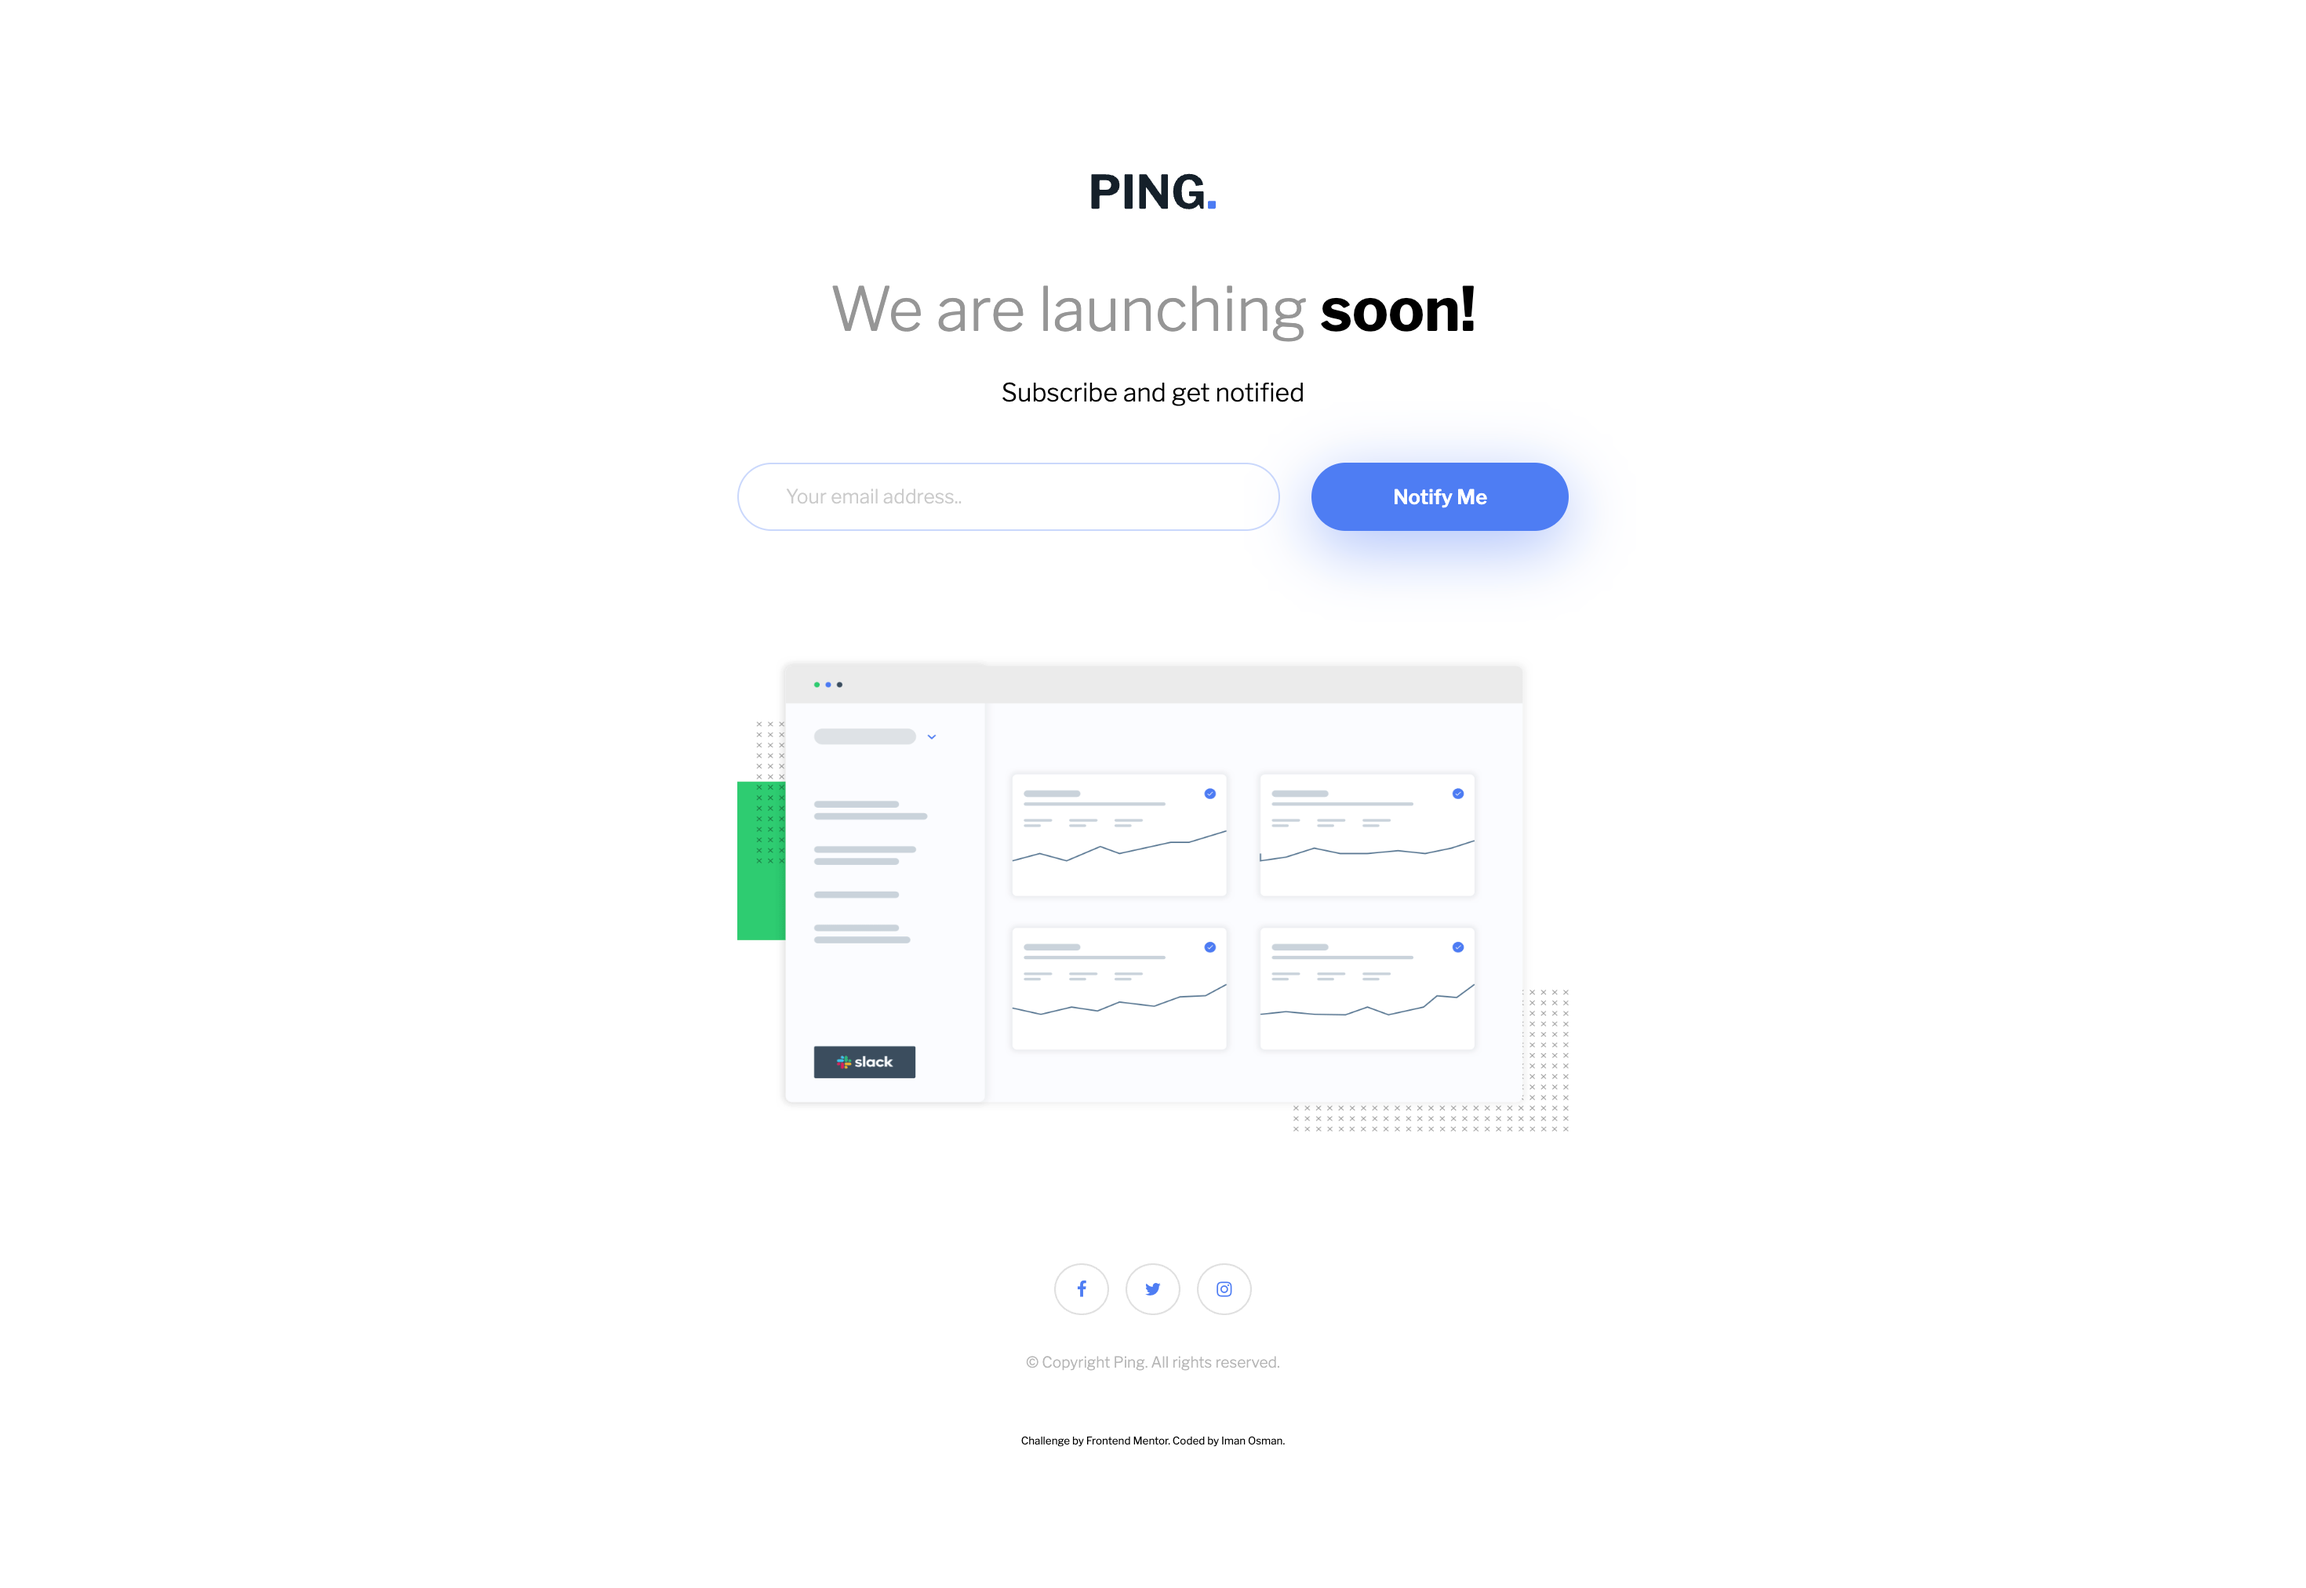
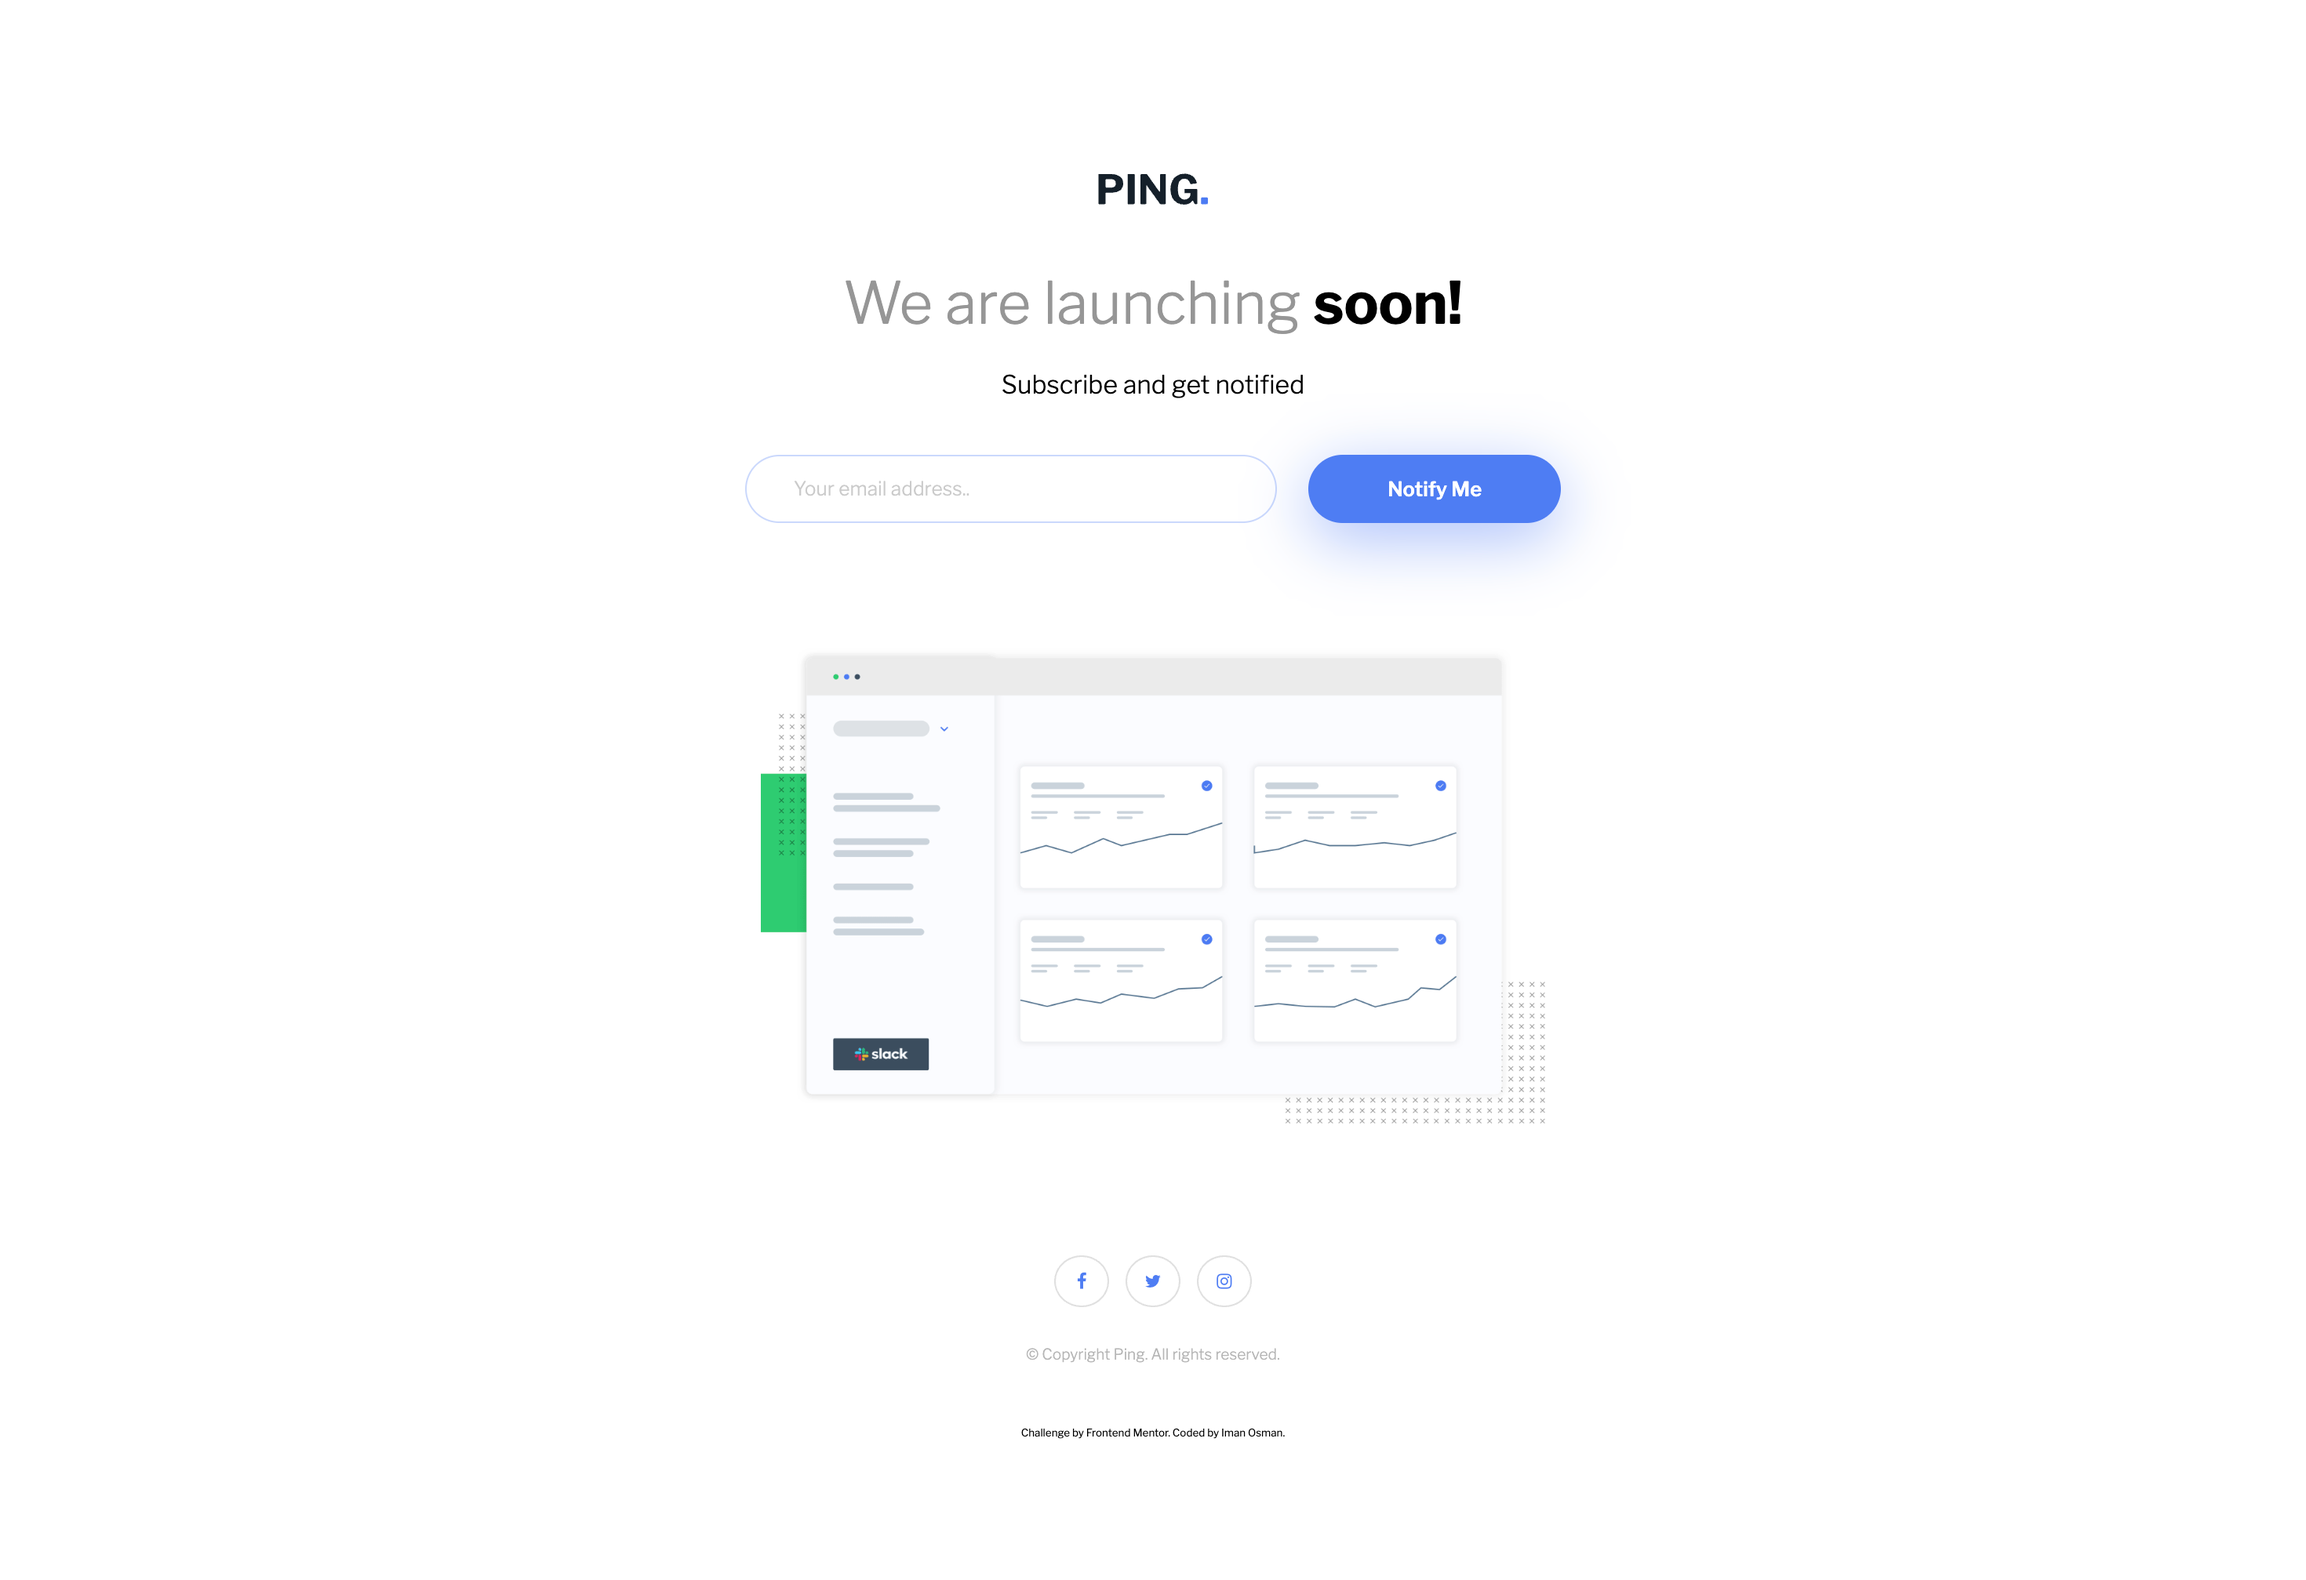
responsive desktop

diff --git a/sass/input.scss b/sass/input.scss
@@ -136,32 +136,27 @@ footer {
     }
 }
 
-// MEDIA QUERIES 
 
 @media screen and (min-width: 426px) { 
 
-    body, header, footer { 
-        margin: 30px 470px;
-    }
-
     .logo { 
-        width: 15%;
+        width: 70px;
     }
 
     .title {
-        font-size: 2.4em;
+        font-size: 2.2em;
         margin-top: 0;
         margin-bottom: 20px;
     }
 
     .subheading { 
-        font-size: 1em;
+        font-size: 0.9em;
         margin-top: 0;
     }
 
     form { 
         
-        width: 100%;
+        min-width: 420px;
 
         display: flex; 
         flex-direction: row;
@@ -198,10 +193,10 @@ footer {
 
         height: 40svh;
         margin-bottom: 80px;
+        width: 450px;
     }
 
     footer { 
-        
         margin: 20px 0;
     }
 
@@ -214,12 +209,28 @@ footer {
 
     a:hover { 
         cursor: pointer;
-        // opacity: 80%; 
         background: hsl(223, 87%, 63%);
         color: #ffffff;
     }
 }
 
-// HOVER STATE
+@media screen and (min-width: 768px) { 
+
+    .title { 
+        font-size: 2.3em; 
+    }
+
+    .subheading { 
+        font-size: 1em; 
+    }
+
+    form { 
+        min-width: 520px;
+    }
+
+    .illustration { 
+        width: 500px;
+    }
+}
 
 

diff --git a/sass/input.css b/sass/input.css
@@ -155,23 +155,20 @@ footer .attribution {
 }
 
 @media screen and (min-width: 426px) {
-  body, header, footer {
-    margin: 30px 470px;
-  }
   .logo {
-    width: 15%;
+    width: 70px;
   }
   .title {
-    font-size: 2.4em;
+    font-size: 2.2em;
     margin-top: 0;
     margin-bottom: 20px;
   }
   .subheading {
-    font-size: 1em;
+    font-size: 0.9em;
     margin-top: 0;
   }
   form {
-    width: 100%;
+    min-width: 420px;
     display: flex;
     flex-direction: row;
   }
@@ -201,6 +198,7 @@ footer .attribution {
   .illustration {
     height: 40svh;
     margin-bottom: 80px;
+    width: 450px;
   }
   footer {
     margin: 20px 0;
@@ -212,5 +210,19 @@ footer .attribution {
     cursor: pointer;
     background: hsl(223, 87%, 63%);
     color: #ffffff;
+  }
+}
+@media screen and (min-width: 768px) {
+  .title {
+    font-size: 2.3em;
+  }
+  .subheading {
+    font-size: 1em;
+  }
+  form {
+    min-width: 520px;
+  }
+  .illustration {
+    width: 500px;
   }
 }/*# sourceMappingURL=input.css.map */

diff --git a/sass/output.css b/sass/output.css
@@ -144,23 +144,20 @@ footer .attribution {
 }
 
 @media screen and (min-width: 426px) {
-  body, header, footer {
-    margin: 30px 470px;
-  }
   .logo {
-    width: 15%;
+    width: 70px;
   }
   .title {
-    font-size: 2.4em;
+    font-size: 2.2em;
     margin-top: 0;
     margin-bottom: 20px;
   }
   .subheading {
-    font-size: 1em;
+    font-size: 0.9em;
     margin-top: 0;
   }
   form {
-    width: 100%;
+    min-width: 420px;
     display: flex;
     flex-direction: row;
   }
@@ -187,6 +184,7 @@ footer .attribution {
   .illustration {
     height: 40svh;
     margin-bottom: 80px;
+    width: 450px;
   }
   footer {
     margin: 20px 0;
@@ -198,6 +196,20 @@ footer .attribution {
     cursor: pointer;
     background: hsl(223, 87%, 63%);
     color: #ffffff;
+  }
+}
+@media screen and (min-width: 768px) {
+  .title {
+    font-size: 2.3em;
+  }
+  .subheading {
+    font-size: 1em;
+  }
+  form {
+    min-width: 520px;
+  }
+  .illustration {
+    width: 500px;
   }
 }
 

diff --git a/README.md b/README.md
@@ -38,12 +38,7 @@ This is a solution to the [Ping coming soon page challenge on Frontend Mentor](h
 
 ## Time taken
 
-:timer_clock: Estimation:
-24/04 - 3.5 hrs
-25/03 - 3 hrs
-31/05 - 3.5hrs
-
-- Total time:
+:timer_clock: 11.5 hrs
 
 ## Lessons
 
@@ -61,19 +56,20 @@ This is a solution to the [Ping coming soon page challenge on Frontend Mentor](h
   Use classes (`.email`, `.submit`) for reusable, general-purpose styling.  
   Use attribute selectors (`input[type="email"]`, `button[type="submit"]`) for specific, role-based styles.  
   Use combination selectors when you want flexibility but with controlled specificity."
-  - CoPilot Think Deeper function.
-  - `<span>` is inline by default so will not take top/bottom margins!
-  - Link to JS file with `<script>` _not_ `<link>`!
-  - `.valueMissing` is a boolean that checks if the field is required and left empty. This relies on the `required` attribute in the HTML.
-  - `.setCustomValidity` sets a _custom_ error message.
-  - `.add("visible")` add the `visible` class (in this case, to the error span element).
-  - `.typeMismatch` is a boolean that checks if the entered input complies to the expect format of the `type` in this case, `email`.
-    error.classList.remove("visible");
-  - `classList` is a property in JS which allows you to easily modify/access classes using methods like `.add()`, `.remove()`, `.toggle()`, `contains()`. In this challenge we used `error.classList.remove("visible");` to `remove`/`add` visibility to error when/if we wanted them.
-  - The `validity` object as part of the HTML Form Validation API. Every `input` has a `validity` property which contains boolean values (`true/false`) as validation states. These check whether inputs comply to necessary constraints or not. Key properties of the `validity` object are: `.valid` (`true/false`), `.valueMissing` (boolean), `.typeMismatch`, `.patternMismatch`, `.tooShort`/`.tooLong`, `rangeUnderflow`/`rangeOverflow`, `stepMismatch`, `..customError` which is set with `setCustomValidity()`.
-  - `setCustomValidity()` doesn't _render_ anything visible in my UI. It just passes the error message value (the string) to the `validity.customError` state in the browser's memory. It doesn't do anything after that on its own, which is why you also needed to include the lines `.textContent`. `setCustomValidity()` is more of a behind-the-scenes performance, rather than anything your user would be seeing/experiencing on the screen. You need both because one serves validation logic and the other, visible feedback.
-  - I replaced the subheading text with my own on valid submission :slightly_smiling_face:
-  - I made the input field clear on valid submission :slightly_smiling_face:
+- CoPilot Think Deeper function.
+- `<span>` is inline by default so will not take top/bottom margins!
+- Link to JS file with `<script>` _not_ `<link>`!
+- `.valueMissing` is a boolean that checks if the field is required and left empty. This relies on the `required` attribute in the HTML.
+- `.setCustomValidity` sets a _custom_ error message.
+- `.add("visible")` add the `visible` class (in this case, to the error span element).
+- `.typeMismatch` is a boolean that checks if the entered input complies to the expect format of the `type` in this case, `email`.
+  error.classList.remove("visible");
+- `classList` is a property in JS which allows you to easily modify/access classes using methods like `.add()`, `.remove()`, `.toggle()`, `contains()`. In this challenge we used `error.classList.remove("visible");` to `remove`/`add` visibility to error when/if we wanted them.
+- The `validity` object as part of the HTML Form Validation API. Every `input` has a `validity` property which contains boolean values (`true/false`) as validation states. These check whether inputs comply to necessary constraints or not. Key properties of the `validity` object are: `.valid` (`true/false`), `.valueMissing` (boolean), `.typeMismatch`, `.patternMismatch`, `.tooShort`/`.tooLong`, `rangeUnderflow`/`rangeOverflow`, `stepMismatch`, `..customError` which is set with `setCustomValidity()`.
+- `setCustomValidity()` doesn't _render_ anything visible in my UI. It just passes the error message value (the string) to the `validity.customError` state in the browser's memory. It doesn't do anything after that on its own, which is why you also needed to include the lines `.textContent`. `setCustomValidity()` is more of a behind-the-scenes performance, rather than anything your user would be seeing/experiencing on the screen. You need both because one serves validation logic and the other, visible feedback.
+- I replaced the subheading text with my own on valid submission :slightly_smiling_face:
+- I made the input field clear on valid submission :slightly_smiling_face:
+- If you set a `width` to a `%`, it will always grow/shrink in relation to the container regardless of `flex-shrink: 0;` for instance. Instead, if you want the size to remain fixed, set a `px` unit instead.
 
 ## Development
 
